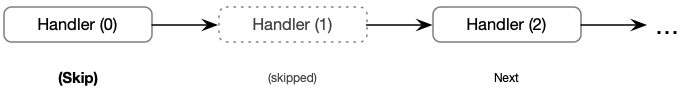
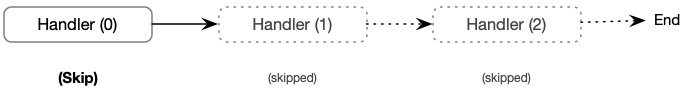
1. pom 依赖中使用 1.0.5-SNAPSHOT 的修正为 1.0.5 2. 项目 README 中描述更新。 3. 修复 pom 中的 scm 标签内容。 3. 工程结构调增，增加 -Pdev 参数，可以方便导入所有项目。

diff --git a/neta-core/src/test/java/net/hasor/neta/recycler/MemTest.java b/neta-core/src/test/java/net/hasor/neta/recycler/MemTest.java
@@ -1,0 +1,52 @@
+package net.hasor.neta.recycler;
+import net.hasor.cobble.RandomUtils;
+import net.hasor.cobble.concurrent.ThreadUtils;
+import net.hasor.cobble.concurrent.future.BasicFuture;
+import net.hasor.cobble.concurrent.future.Future;
+import net.hasor.cobble.io.IOUtils;
+import net.hasor.neta.bytebuf.ByteBuf;
+import net.hasor.neta.bytebuf.ByteBufAllocator;
+import org.junit.Test;
+
+import java.util.concurrent.TimeUnit;
+
+public class MemTest {
+    static boolean[] randomBoolean = new boolean[1000];
+    static int[]     randomInt     = new int[1000];
+
+    static {
+        for (int i = 0; i < randomBoolean.length; i++) {
+            randomBoolean[i] = RandomUtils.nextBoolean();
+        }
+        for (int i = 0; i < randomBoolean.length; i++) {
+            randomInt[i] = RandomUtils.nextInt(1, 128);
+        }
+    }
+
+    @Test
+    public void requestNetaBuffer_1() {
+        for (int j : randomInt) {
+            ByteBuf buf = ByteBufAllocator.DEFAULT.pooledBuffer(j);
+            IOUtils.closeQuietly(buf);
+        }
+    }
+
+    @Test
+    public void requestNetaBuffer() {
+        Future<Object> future = new BasicFuture<>();
+        for (int i = 0; i < 16; i++) {
+            Thread t = ThreadUtils.daemonThread(true, (Runnable) () -> {
+                while (!future.isDone()) {
+                    for (int j : randomInt) {
+                        ByteBuf buf = ByteBufAllocator.DEFAULT.pooledBuffer(j);
+                        IOUtils.closeQuietly(buf);
+                    }
+                }
+            });
+        }
+
+        ThreadUtils.sleep(3, TimeUnit.SECONDS);
+        future.completed(new Object());
+        System.out.println("requestNetaBuffer done.");
+    }
+}

diff --git a/neta-doc/docs/guides/principle/buffer_pool.md b/neta-doc/docs/guides/principle/buffer_pool.md
@@ -1,7 +1,68 @@
 ---
-sidebar_position: 3
-title: Buffer
-description: dbVisitor 架构在整体上体系化，局部层面各个模块遵循独立原则。因此每一个模块几乎都可以独立使用而且互不影响。
+sidebar_position: 4
+title: 缓冲区(ByteBuf)
+description: 本文将会介绍 Neta 中的缓冲区(ByteBuf)工作机制以及如何使用它。
 ---
 
-# Buffer 池
+# 内存
+
+内存缓冲区分为三种类型：连续内存、池化内存、环形内存
+
+|      | 固定容量 | 堆外内存 | 自动扩容 |
+|------|------|------|------|
+| 连续内存 | ✔    | ✔    | ✔    |
+| 池化内存 | ✔    | ✔    | ✔    |
+| 环形内存 | ✔    | ✔    | ✗    |
+
+## 内存池
+
+内存分配算法
+
+BufferPool 内存池核心管理器
+BufferArena 内存池按照使用率分区快管理
+BufferRing 管理多个内存区块的 环形链表
+PageChunkPool，被 BufferRing 管理，每个独立的内存区块，使用 伙伴算法来分配。
+
+
+## 零拷贝
+
+- 内存 0 拷贝技术
+
+
+
+ByteBuf
+所有权
+
+- 拥有所有权等于拥有内存引用，在 free 操作上会减少引用计数，当引用计数为 0 时候内存页会被放回内存池。
+- 当 Buffer 具有所有权，的写操作可以放心的进行。
+
+ByteBuf 系统整体分为三个部分：Page、Buffer、ByteBuf
+
+Page
+
+基于伙伴算法以页为单位提供内存分配的辅助支持，Page 系统的特点是并不真实产生内存开销而是提供算法支持。
+
+- 每次分配会获得一段连续的 Page
+- 若干连续的 Page 组合在一起形成 Chunk
+- 每个伙伴系统默认维护 4096 个 Page
+
+Buffer
+
+- 通过 BufferAllocator 申请真实的内存空间，(即 4096 个 Page)，一次性申请整块连续的内存
+- 基于 Page 可以从 Buffer 中获取内存的操作接口 BufferPage，并通过 BufferPage 接口对内存进行读写
+- Buffer 利用 Page 的 split 能力可以
+-
+
+ByteBuf
+
+
+
+
+
+
+
+    /** Splits the buffer into two, at the splitOffset position. */
+    BufferPage split(int splitOffset);
+
+    /** Discards the compactOffset bytes, and moves the buffer contents to the beginning of the buffer. */
+    BufferPage compact(int compactOffset);

diff --git a/neta-doc/docs/guides/principle/proto_stack.md b/neta-doc/docs/guides/principle/proto_stack.md
@@ -76,21 +76,15 @@ public ProtoStack onMessage(PipeContext context,
 ![](../../../static/docs/ps_act_restart.png)
 
 **Skip 行为**
-- 继续执行但是跳过下一个 Handler。
+- 中断事件传播，并跳过所有 Handler直达末尾。
 
 ![](../../../static/docs/ps_act_skip.png)
 
-**Exit 行为**
-- 中断事件传播，并跳过所有 Handler直达末尾。
+如果在上行事件传播过程中使用 Skip 行为，那么在进入下行处理的时候会从 Skip 处开始向下传播而非 ProtoStack 的顶部。
 
-![](../../../static/docs/ps_act_exit.png)
+![](../../../static/docs/ps_act_skip_bounds.png)
 
-如果在上行事件传播过程中使用 Exit 行为，那么在进入下行处理的时候会从 Exit 处开始向下传播而非 ProtoStack 的顶部。
-
-![](../../../static/docs/ps_act_exit_bounds.png)
-
-
-对于上行消息 Exit 意味着，结束上行传播阶段进入下行传播阶段。而下行传播阶段会从 Exit 位置开始。
+对于上行消息 Skip 意味着，结束上行传播阶段进入下行传播阶段。而下行传播阶段会从 Skip 位置开始。
 
 **Interrupt 行为**
 - 中断管道事件传播并抛出错误。
